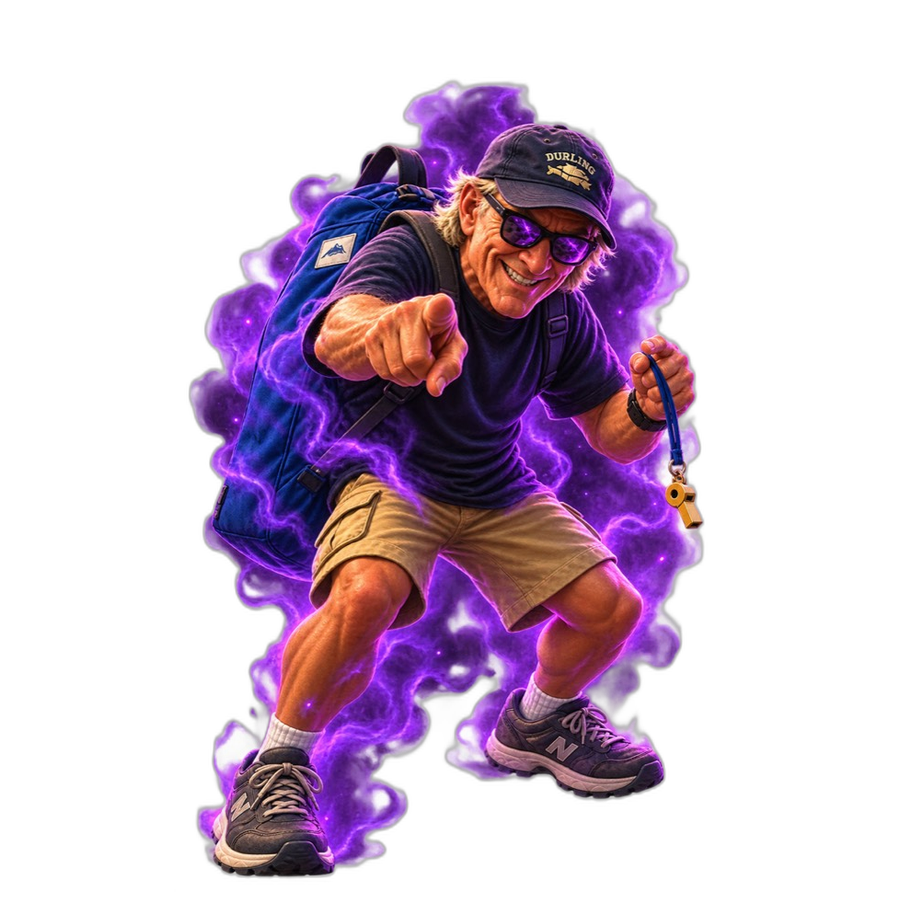
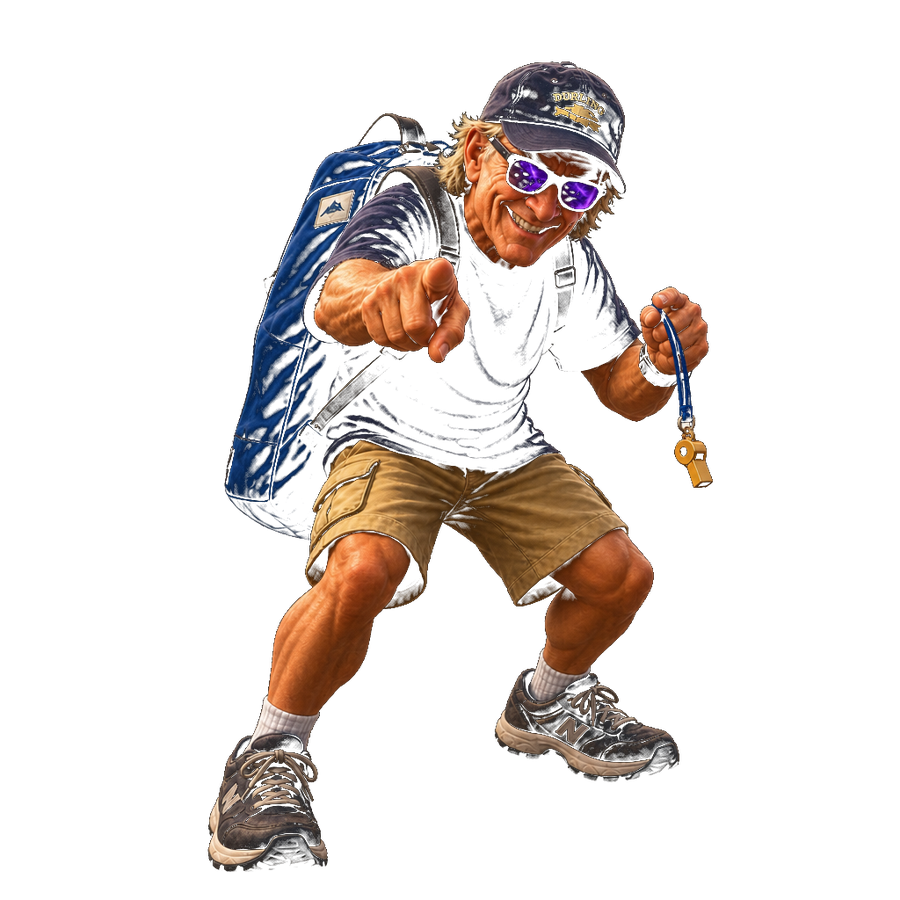
fix(philroyale): shrink Evil Phil battlefield purple mist
Strip the full-body purple aura from troop sprites and replace with a compact lower mist/flame VFX. Card art unchanged.

diff --git a/philroyale/src/characters/EvilPhilModel.tsx b/philroyale/src/characters/EvilPhilModel.tsx
@@ -13,7 +13,7 @@ type Props = {
   portrait?: boolean
 }
 
-/** Evil Phil — purple-mist coach crouch; sundae + whip overlays. */
+/** Evil Phil — clean coach crouch; compact purple mist/flame on battlefield only. */
 export function EvilPhilModel({ anim, facing, attackId, portrait }: Props) {
   const attack =
     anim === 'attack' && attackId === 'chickenWhip'
@@ -32,29 +32,78 @@ export function EvilPhilModel({ anim, facing, attackId, portrait }: Props) {
         anim={anim}
         facing={facing}
         portrait={portrait}
-      portraitScale={1.2}
+        portraitScale={1.2}
         objectPos="50% 22%"
         gait="jog"
         attack={attack}
-        spriteLegs
+        spriteLegs={false}
       />
-      {/* Soft animated purple mist on top of baked-in aura */}
-      <div
-        className="pointer-events-none absolute inset-0"
-        style={{
-          background:
-            'radial-gradient(circle at 50% 55%, #b040ff55 0%, #6a10c033 40%, transparent 72%)',
-          mixBlendMode: 'screen',
-          animation: 'evilPhilMist 1.8s ease-in-out infinite',
-        }}
-        aria-hidden
-      />
-      <style>{`
-        @keyframes evilPhilMist {
-          0%, 100% { opacity: 0.65; transform: scale(1); }
-          50% { opacity: 1; transform: scale(1.05); }
-        }
-      `}</style>
+      {/* Compact purple mist/flame — battlefield only, much smaller than old full-body aura */}
+      {!portrait ? (
+        <>
+          <div
+            className="pointer-events-none absolute inset-x-[18%] bottom-[-2%] top-[42%] overflow-visible"
+            aria-hidden
+          >
+            {[
+              { left: '22%', delay: '0s', h: '72%', w: '28%' },
+              { left: '40%', delay: '0.2s', h: '88%', w: '30%' },
+              { left: '58%', delay: '0.1s', h: '76%', w: '26%' },
+            ].map((f, i) => (
+              <div
+                key={i}
+                className="absolute bottom-[6%]"
+                style={{
+                  left: f.left,
+                  width: f.w,
+                  height: f.h,
+                  transformOrigin: '50% 100%',
+                  animation: `evilPhilMistFlame 0.7s ease-in-out ${f.delay} infinite`,
+                  background: `
+                    radial-gradient(ellipse 50% 35% at 50% 15%, #f0d0ff 0%, transparent 55%),
+                    radial-gradient(ellipse 65% 50% at 50% 45%, #c060ff 0%, #8020e0 50%, transparent 72%),
+                    radial-gradient(ellipse 75% 60% at 50% 82%, #5a10b0aa 0%, #3a087888 50%, transparent 78%)
+                  `,
+                  borderRadius: '45% 55% 40% 60% / 70% 65% 35% 30%',
+                  filter: 'blur(0.5px)',
+                  mixBlendMode: 'screen',
+                  opacity: 0.85,
+                }}
+              />
+            ))}
+            <div
+              className="absolute bottom-[4%] left-1/2 h-[18%] w-[48%] -translate-x-1/2"
+              style={{
+                borderRadius: '50%',
+                background:
+                  'radial-gradient(ellipse, #d080ffbb 0%, #a040ff66 40%, transparent 72%)',
+                filter: 'blur(1px)',
+                animation: 'evilPhilMistCore 0.85s ease-in-out infinite',
+              }}
+            />
+          </div>
+          <style>{`
+            @keyframes evilPhilMistFlame {
+              0%, 100% {
+                opacity: 0.55;
+                transform: scaleY(0.9) scaleX(1) translateY(0);
+              }
+              40% {
+                opacity: 0.9;
+                transform: scaleY(1.08) scaleX(0.94) translateY(-4%);
+              }
+              70% {
+                opacity: 0.7;
+                transform: scaleY(1.02) scaleX(1.04) translateY(-2%);
+              }
+            }
+            @keyframes evilPhilMistCore {
+              0%, 100% { opacity: 0.5; transform: translateX(-50%) scale(0.92); }
+              50% { opacity: 0.85; transform: translateX(-50%) scale(1.06); }
+            }
+          `}</style>
+        </>
+      ) : null}
     </div>
   )
 }
